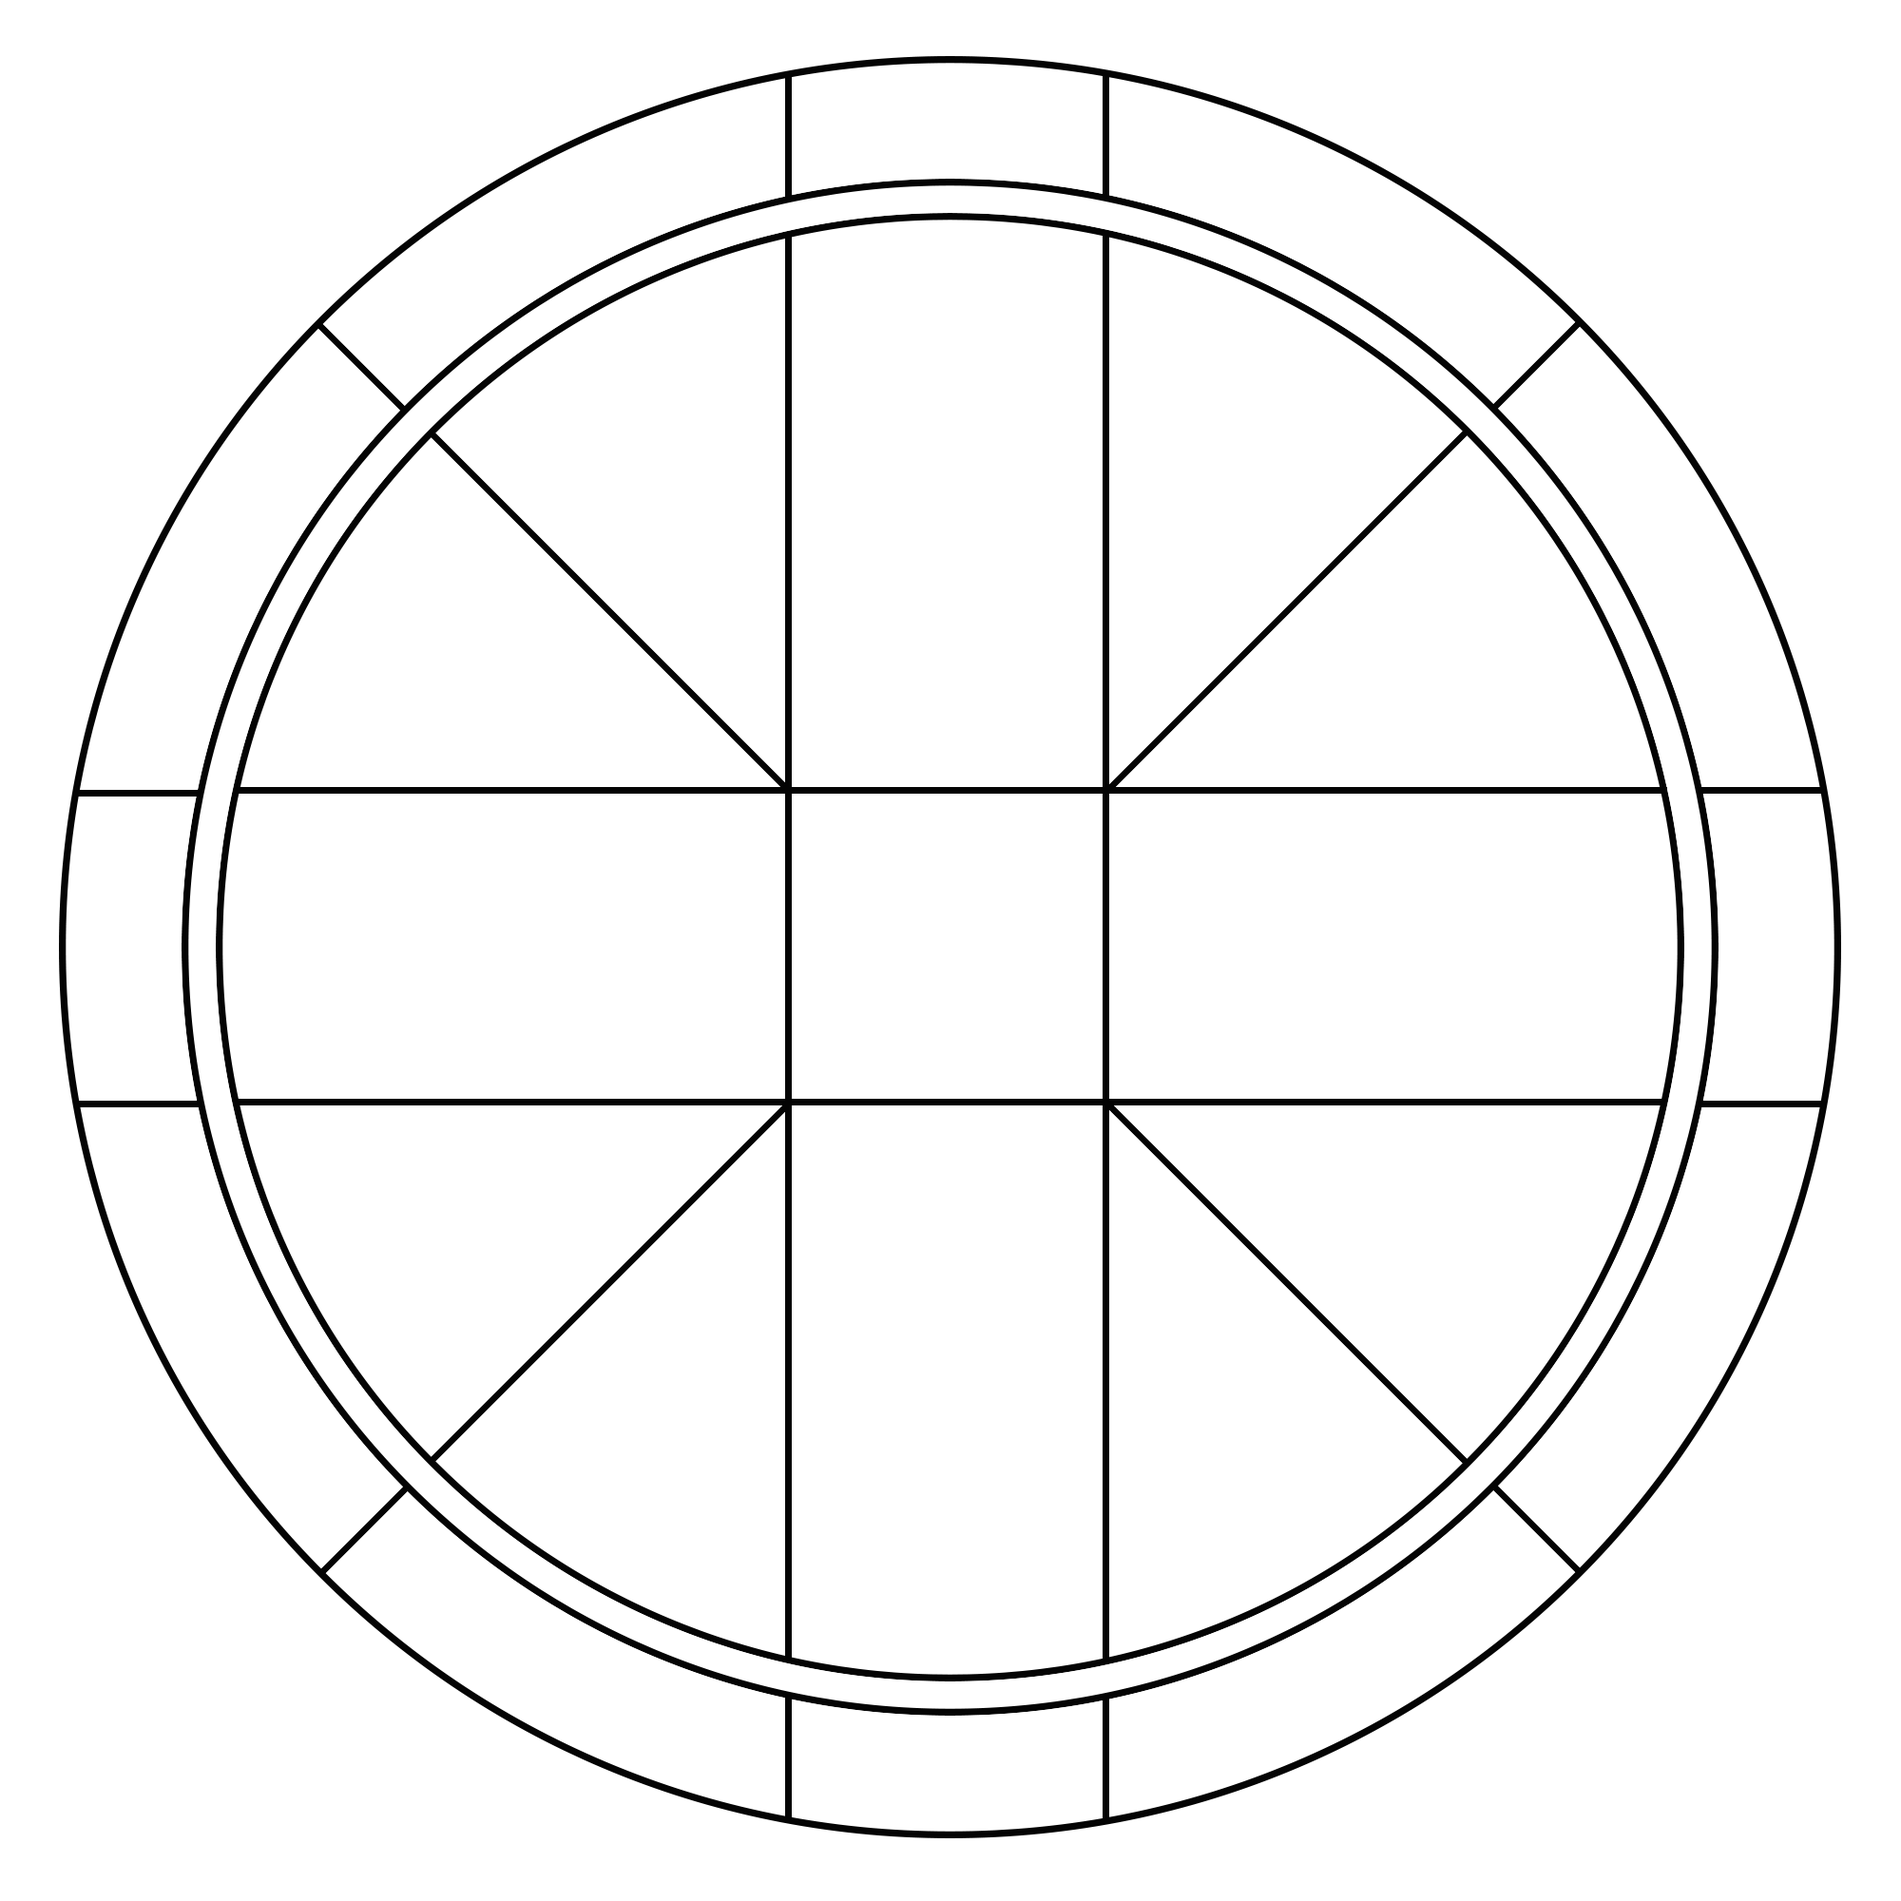
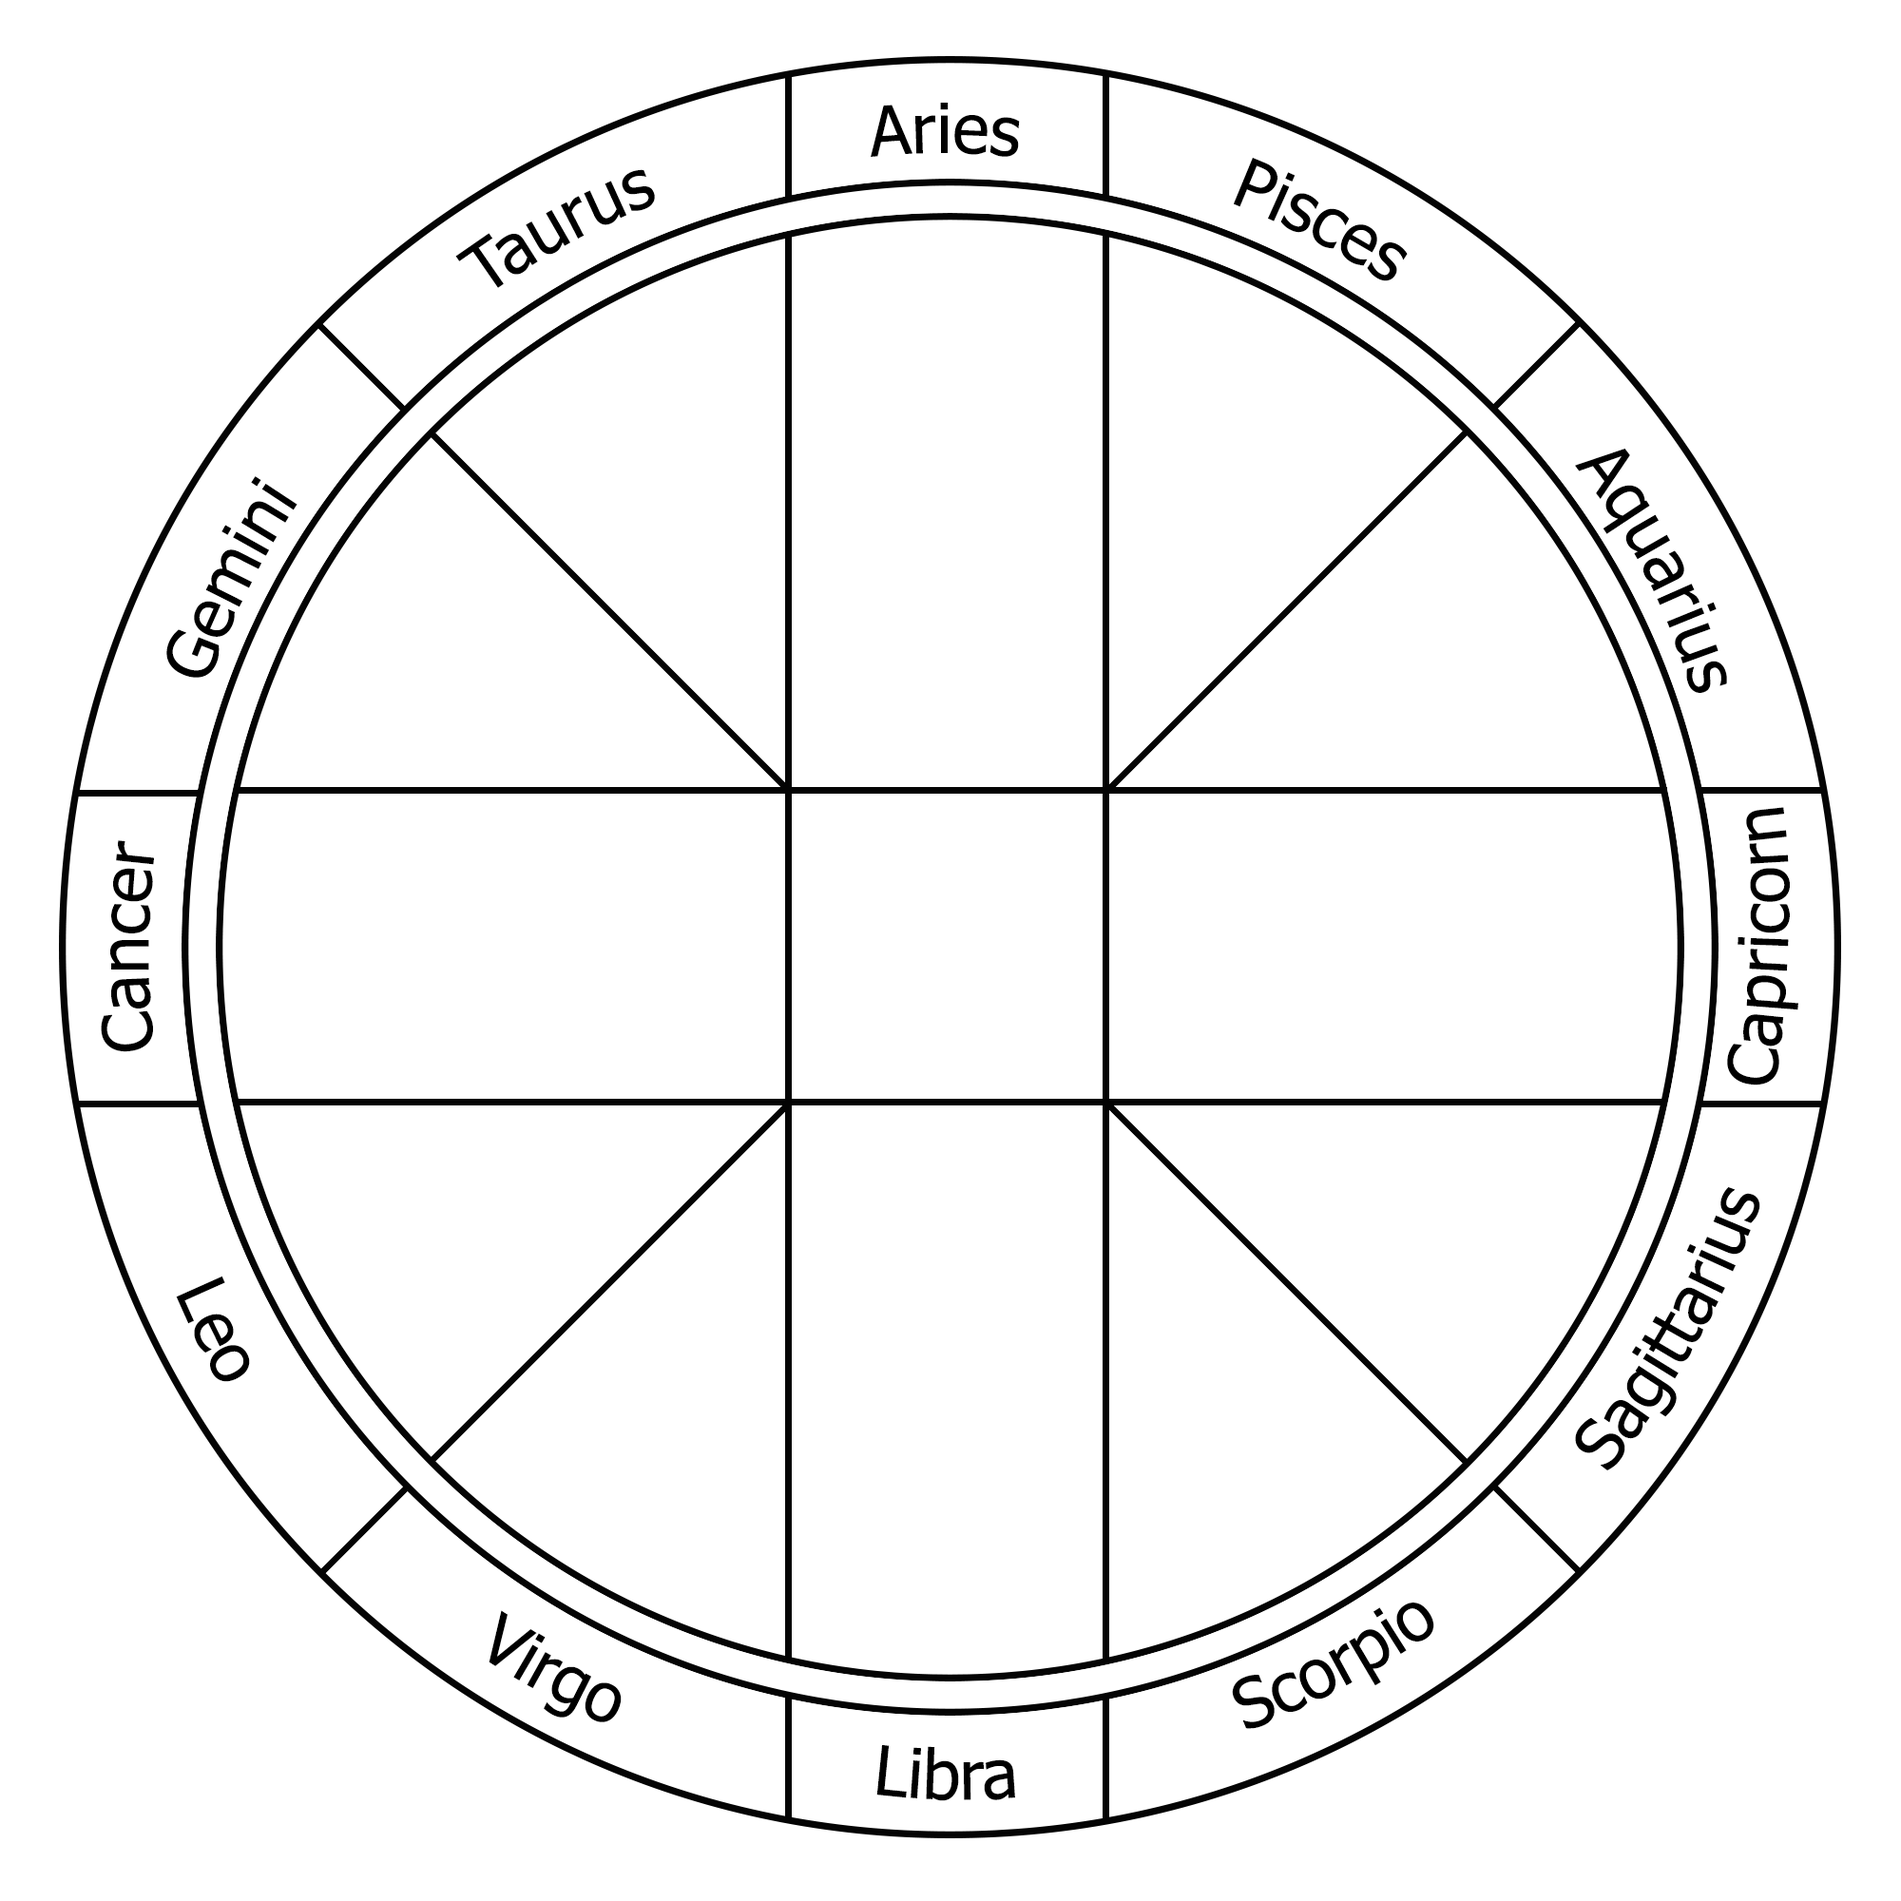
Change new image & fix exercise bug

diff --git a/src/pages/Exercise.vue b/src/pages/Exercise.vue
@@ -23,7 +23,7 @@
                     </h3>
                 </div>
             </div>
-            <div @click="changePage('lec1')">
+            <div @click.stop="changePage('lec1')">
                 <footerBar name="NEXT"></footerBar>
             </div>
         </div>
@@ -34,10 +34,10 @@
                     <h2>
                         From the following chart, we have to find a start point from the birth month.
                     </h2>
-                    <img src="../assets/chart-month.png" alt="">
+                    <img src="../assets/chart-month-time.png" alt="">
                 </div>
             </div>
-            <div @click="changePage('ex1')">
+            <div @click.stop="changePage('ex1')">
                 <footerBar name="NEXT"></footerBar>
             </div>
         </div>
@@ -46,13 +46,13 @@
             <div class="wrapper">
                 <div class="question">
                     <div class="container">
-                        <img src="../assets/chart-month.png" alt="">
+                        <img src="../assets/chart-month-time.png" alt="">
                         Where is the index of start point ?
                     </div>
                 </div>
                 <div class="answers-box">
                     <div @click="incorrectAnswer" class="answer">At point 1</div>
-                    <div @click="changePage('lec2')" class="answer">At point 4</div>
+                    <div @click.stop="changePage('lec2')" class="answer">At point 4</div>
                     <div @click="incorrectAnswer" class="answer">At point 7</div>
                     <div @click="incorrectAnswer" class="answer">At point 10</div>
                 </div>
@@ -65,10 +65,10 @@
                     <h2>
                         Each of chart slot has a different value. We will find a Lakkana zodiac from a calculation of these value.
                     </h2>
-                    <img src="../assets/chart-time.png" alt="">
+                    <img src="../assets/chart-month-time.png" alt="">
                 </div>
             </div>
-            <div @click="changePage('lec3')">
+            <div @click.stop="changePage('lec3')">
                 <footerBar name="NEXT"></footerBar>
             </div>
         </div>
@@ -85,10 +85,10 @@
                     <h3>
                         No, not start from 0 !
                     </h3>
-                    <img src="../assets/chart-time-july.png" alt="">
+                    <img src="../assets/chart-month-time-july.png" alt="">
                 </div>
             </div>
-            <div @click="changePage('lec4')">
+            <div @click.stop="changePage('lec4')">
                 <footerBar name="NEXT"></footerBar>
             </div>
         </div>
@@ -114,10 +114,10 @@
                     <h3 style="color: #a8c6e8;">
                         (max-value slot) * (days) / 30
                     </h3>
-                    <img src="../assets/chart-time-july.png" alt="">
+                    <img src="../assets/chart-month-time-july.png" alt="">
                 </div>
             </div>
-            <div @click="changePage('ex2')">
+            <div @click.stop="changePage('ex2')">
                 <footerBar name="NEXT"></footerBar>
             </div>
         </div>
@@ -134,7 +134,7 @@
                 <div class="answers-box">
                     <div @click="incorrectAnswer" class="answer">10</div>
                     <div @click="incorrectAnswer" class="answer">15</div>
-                    <div @click="changePage('lec5')" class="answer">20</div>
+                    <div @click.stop="changePage('lec5')" class="answer">20</div>
                     <div @click="incorrectAnswer" class="answer">30</div>
                 </div>
             </div>
@@ -166,7 +166,7 @@
                     </h2>
                 </div>
             </div>
-            <div @click="changePage('lec6')">
+            <div @click.stop="changePage('lec6')">
                 <footerBar name="NEXT"></footerBar>
             </div>
         </div>
@@ -174,7 +174,7 @@
         <div v-if="page === 'lec6'" id="lec6">
             <div class="wrapper">
                 <div class="wrapper-lec">
-                    <img src="../assets/chart-time-july.png" alt="">
+                    <img src="../assets/chart-month-time-july.png" alt="">
                     <h4>
                         From the previous value <span style="color: #35dabd;">277</span>, we have to minus it with each slot value counter-clockwise
                     </h4>
@@ -190,7 +190,7 @@
                     </h2>
                 </div>
             </div>
-            <div @click="changePage('ex3')">
+            <div @click.stop="changePage('ex3')">
                 <footerBar name="NEXT"></footerBar>
             </div>
         </div>
@@ -199,15 +199,14 @@
             <div class="wrapper">
                 <div class="question">
                     <div class="container">
-                        <img src="../assets/chart-time-july.png" alt="">
-                        <img src="../assets/chart-month.png" alt="">
+                        <img src="../assets/chart-month-time-july.png" alt="">
                         What is a Lakkana Slot ?
                         <br>
                         <i style="color: #AAA;">Minus until found negative value.</i>
                     </div>
                 </div>
                 <div class="answers-box">
-                    <div @click="changePage('lec7')" class="answer">At point 6</div>
+                    <div @click.stop="changePage('lec7')" class="answer">At point 6</div>
                     <div @click="incorrectAnswer" class="answer">At point 7</div>
                     <div @click="incorrectAnswer" class="answer">At point 9</div>
                     <div @click="incorrectAnswer" class="answer">At point 11</div>

diff --git a/src/pages/Create.vue b/src/pages/Create.vue
@@ -24,9 +24,15 @@
                         </p>
                     </div>
                     <div class="field">
-                        <label class="label">Date / Time of Birth</label>
+                        <label class="label">Date of Birth</label>
                         <p class="control">
-                            <input class="input" type="datetime-local" v-model="profile.birth" :disabled="selectedProfile">
+                            <input class="input" type="date" v-model="profile.date" :disabled="selectedProfile">
+                        </p>
+                    </div>
+                    <div class="field">
+                        <label class="label">Time of Birth</label>
+                        <p class="control">
+                            <input class="input" type="time" v-model="profile.time" :disabled="selectedProfile">
                         </p>
                     </div>
                     <div class="field">
@@ -86,7 +92,8 @@ export default {
         return {
             selectedProfile: null,
             profile: {
-                birth: '',
+                date: '',
+                time: '',
                 country: 'Thailand',
             },
             countries,
@@ -104,14 +111,14 @@ export default {
     },
     methods: {
         getProfile() {
-            const timeZone = new Date().toString().match(/([-+][0-9]+)\s/)[1];
-            const date = new Date(this.$data.profile.birth + timeZone);
+            const date = new Date(this.$data.profile.date);
+            const time = this.$data.profile.time.split(':');
             return {
                 day: twoDigits(date.getDate()),
                 month: twoDigits(date.getMonth() + 1),
                 year: date.getFullYear(),
-                hour: twoDigits(date.getHours()),
-                minute: twoDigits(date.getMinutes()),
+                hour: twoDigits(time[0]),
+                minute: twoDigits(time[1]),
                 country: this.$data.profile.country,
             };
         },
@@ -161,7 +168,8 @@ export default {
             const selectedProfile = this.$data.selectedProfile;
             if (selectedProfile) {
                 this.$data.profile = {
-                    birth: selectedProfile.year + '-' + selectedProfile.month + '-' + selectedProfile.day + 'T' + selectedProfile.hour + ':' + selectedProfile.minute,
+                    date: selectedProfile.year + '-' + selectedProfile.month + '-' + selectedProfile.day,
+                    time: selectedProfile.hour + ':' + selectedProfile.minute,
                     country: selectedProfile.country,
                 };
             }
@@ -171,8 +179,6 @@ export default {
                 profile.year,
                 profile.month - 1,
                 profile.day,
-                profile.hour,
-                profile.minute,
             );
             const days = ['Sun', 'Mon', 'Tue', 'Wed', 'Thu', 'Fri', 'Sat'];
             const months = ['Jan', 'Feb', 'Mar', 'Apr', 'May', 'Jun', 'Jul', 'Aug', 'Sep', 'Oct', 'Nov', 'Dec'];

diff --git a/src/pages/ChartTable.vue b/src/pages/ChartTable.vue
@@ -2,7 +2,7 @@
     <div>
         <div v-if="page === 'chart'" id="chart">
             <div class="wrapper">
-                <lakkanaChart :chartMap="zodiacSelection" chartType="1"></lakkanaChart>
+                <lakkanaChart :chartMap="zodiacSelection" chartType="2"></lakkanaChart>
                 <div class="table-wrapper">
                     <table class="table is-striped is-bordered" >
                         <thead>
@@ -18,18 +18,18 @@
                                     <div class="select">
                                         <select @change="selectChange" class="zodiacChoice" v-model="zodiacSelection[star]">
                                             <option value="-1">No-Value</option>
-                                            <option value="0">0</option>
-                                            <option value="1">1</option>
-                                            <option value="2">2</option>
-                                            <option value="3">3</option>
-                                            <option value="4">4</option>
-                                            <option value="5">5</option>
-                                            <option value="6">6</option>
-                                            <option value="7">7</option>
-                                            <option value="8">8</option>
-                                            <option value="9">9</option>
-                                            <option value="10">10</option>
-                                            <option value="11">11</option>
+                                            <option value="0">1</option>
+                                            <option value="1">2</option>
+                                            <option value="2">3</option>
+                                            <option value="3">4</option>
+                                            <option value="4">5</option>
+                                            <option value="5">6</option>
+                                            <option value="6">7</option>
+                                            <option value="7">8</option>
+                                            <option value="8">9</option>
+                                            <option value="9">10</option>
+                                            <option value="10">11</option>
+                                            <option value="11">12</option>
                                         </select>
                                     </div>
                                 </td>

diff --git a/src/components/LakkanaChart.vue b/src/components/LakkanaChart.vue
@@ -1,7 +1,8 @@
 <template>
     <div class="lakkana-chart">
         <h1>{{chartMap}}</h1>
-        <img class="chart-img" src="../assets/chart.png" alt="">
+        <img v-if="chartType === '1'" class="chart-img" src="../assets/chart.png" alt="">
+        <img v-if="chartType === '2'" class="chart-img" src="../assets/chart-position.png" alt="">
         <div v-for="className in Object.keys(chartHTML)" :class="className" v-html="getHTML(chartHTML[className])"></div>
     </div>
 </template>
@@ -124,8 +125,8 @@ export default {
     }
     .five-clock {
         position: absolute;
-        top: 65%;
-        left: 28%;
+        top: 68%;
+        left: 28.5%;
         width: 12%;
         // background-color: #F00;
         display: flex;
@@ -146,8 +147,8 @@ export default {
     }
     .seven-clock {
         position: absolute;
-        top: 65%;
-        left: 59.5%;
+        top: 68%;
+        left: 59%;
         width: 12%;
         // background-color: #F00;
         display: flex;
